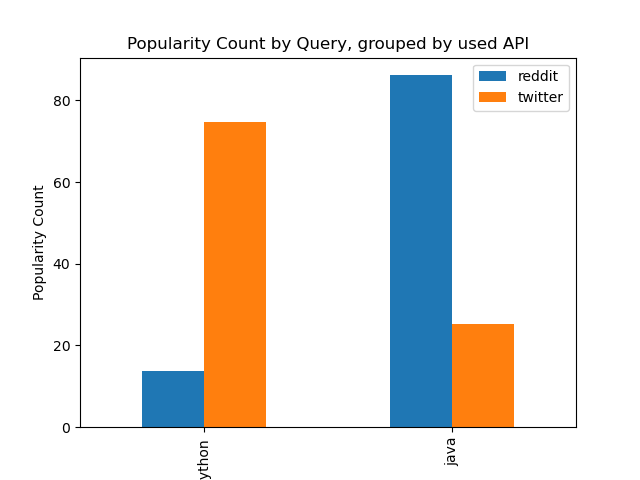
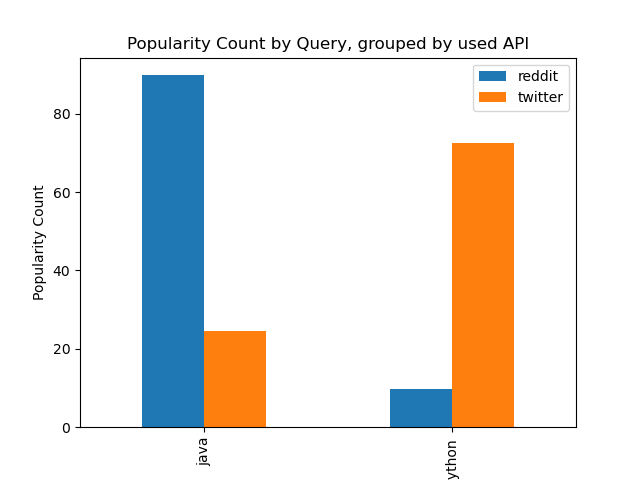
a

diff --git a/Hit_Count_Engine/main.py b/Hit_Count_Engine/main.py
@@ -7,13 +7,16 @@ import threading
 from reddit.reddit_api import reddit_process
 from twitter.twitter import twitter_process
 
+from operator import itemgetter
+
 import matplotlib.pyplot as plt
 import pandas as pd
 
 import datetime
 import time
 
-processes = [reddit_process, twitter_process]
+#processes = [reddit_process, twitter_process]
+processes = [twitter_process]
 
 
 
@@ -159,14 +162,12 @@ def main():
     Hit_Count_Engine, in_out_results, graphs, hists, json_outputs, hists_date_dir = getDirectories(current_date)
 
 
-
-
     # ----------------------python results---------------------
     #TODO change queries to real queries from JSON
 
     # Test input, to comment
-    # queries = ["python", "java"]
-    # qualifying_terms = ["comput", "program", "code", "develop"]
+    queries = ["python", "java", "golang"]
+    qualifying_terms = ["comput", "program", "code", "develop"]
 
     #Threading ?
     #results = threading.Thread(target=processAPIprograms, args=(queries, qualifying_terms, True))
@@ -180,6 +181,18 @@ def main():
     # Merged Normalized Results of every used API
     merged_results = getMergedResults(results, queries)
 
+    # Top N results to display on histograms
+    N = 10
+
+    merged_top_results = dict(sorted(merged_results.items(), key = itemgetter(1), reverse = True)[:N])
+    top_results = {api:{} for api in results.keys()}
+    for api in results.keys():
+        for key in merged_top_results.keys():
+            top_results[api][key] = results[api][key]
+
+    #print(merged_top_results)
+    #print(top_results)
+
 
     print("The popularity results of " + str(current_date) + " are: ")
     print("For each API: " + str(results))
@@ -190,7 +203,7 @@ def main():
 
     #HISTOGRAMS for each API
     # browsing APIs (reddit, twitter, ...)
-    for API, API_res in results.items():
+    for API, API_res in top_results.items():
         # plotting a histogram (popularity in function of queries) for a particular API
         fig, ax = plt.subplots()
 
@@ -205,7 +218,7 @@ def main():
     # plotting a histogram (popularity in function of queries) for a particular API
     fig, ax = plt.subplots()
 
-    ax.bar(list(merged_results.keys()), merged_results.values())
+    ax.bar(list(merged_top_results.keys()), merged_top_results.values())
 
     ax.set_ylabel('Merged Popularity Count of every APIs')
     ax.set_title('Popularity Count by Query')
@@ -214,7 +227,7 @@ def main():
 
 
     #grouped HISTOGRAM (popularity in function of queries) for every used API
-    fig = pd.DataFrame(results).plot(kind='bar'
+    fig = pd.DataFrame(top_results).plot(kind='bar'
                                     , title="Results"
                                     , legend=True)
     plt.ylabel('Popularity Count')
